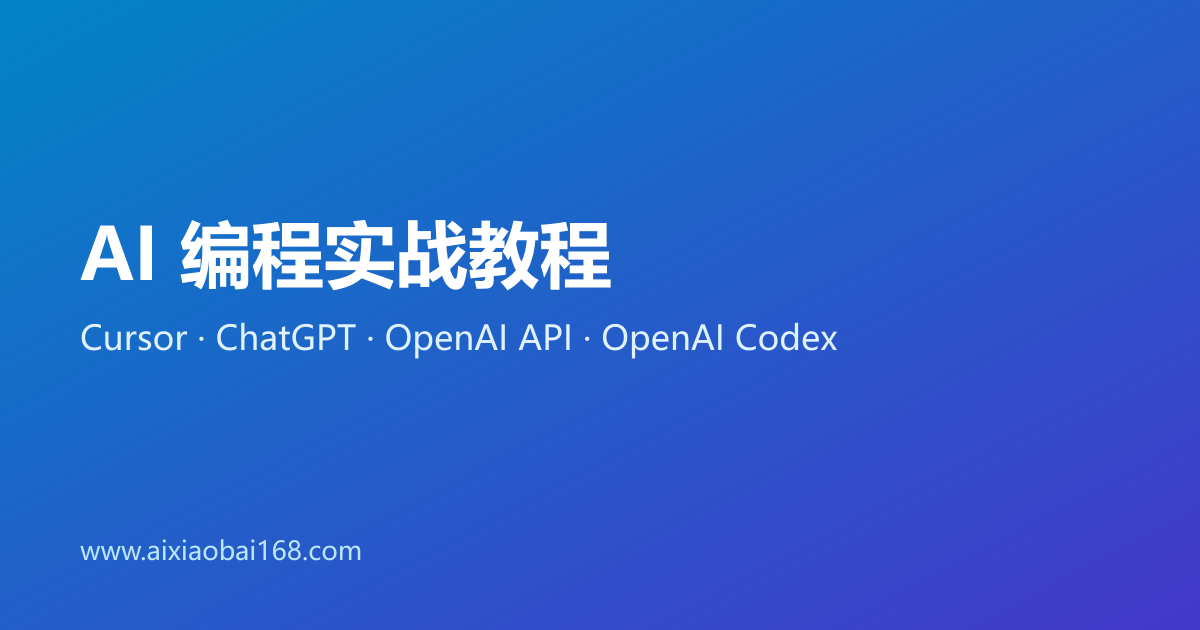
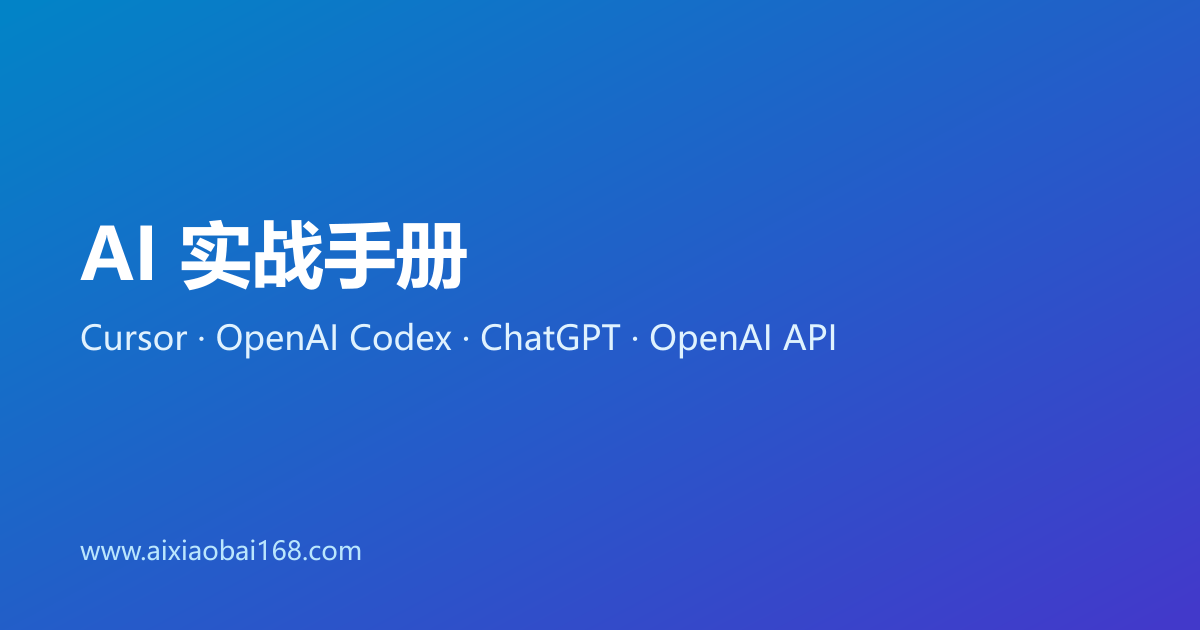
refactor: 品牌统一为「AI 实战手册」/ ai-playbook，站名改为引用 SITE_NAME 常量，重生成 OG 图

Changed region(s): [[0.1542, 0.3317, 0.5242, 0.4825], [0.185, 0.5127, 0.7092, 0.573]]

diff --git a/src/lib/site.ts b/src/lib/site.ts
@@ -1,7 +1,9 @@
 /** 站点级常量，供 layout、Seo 组件等复用，避免站名字符串到处重复硬编码。 */
-export const SITE_NAME = "AI 编程实战教程";
+export const SITE_NAME = "AI 实战手册";
+export const SITE_TAGLINE =
+  "AI 编程与 Agent 工作流的可执行手册，小白也能照着做";
 export const SITE_AUTHOR = "wybzsngw";
 
 /** 首页 <meta name="description"> 文案，同时供 RSS 频道 description 复用，避免两处各写一份文案。 */
 export const SITE_DESCRIPTION =
-  "AI 编程实战教程站是面向海外中文读者的技术教程站，系统整理 Cursor、ChatGPT、OpenAI API 与 OpenAI Codex 四大专题的实战步骤、工程化流程、账号与费用边界、常见故障排查方法，帮助你从安装配置到日常开发运维全流程落地使用 AI 编程与效率工具，少走弯路、避免反复踩坑。";
+  "AI 实战手册面向海外中文读者，系统整理 Cursor、OpenAI Codex、ChatGPT 与 OpenAI API 的可执行步骤、Agent 工作流、账号与费用边界和故障排查方法，帮你从安装配置到日常开发把 AI 编程工具真正用起来，少走弯路。";

diff --git a/README.md b/README.md
@@ -1,7 +1,7 @@
-# AI 编程实战教程 2026 — Cursor / ChatGPT / OpenAI API / OpenAI Codex
+# AI 实战手册 — Cursor / OpenAI Codex / ChatGPT / OpenAI API 中文实战教程
 
 [![在线阅读](https://img.shields.io/badge/在线阅读-www.aixiaobai168.com-0ea5e9?style=for-the-badge)](https://www.aixiaobai168.com)
-[![GitHub stars](https://img.shields.io/github/stars/wybzsngw/ai-tools-guide?style=for-the-badge&label=stars&color=orange)](https://github.com/wybzsngw/ai-tools-guide/stargazers)
+[![GitHub stars](https://img.shields.io/github/stars/wybzsngw/ai-playbook?style=for-the-badge&label=stars&color=orange)](https://github.com/wybzsngw/ai-playbook/stargazers)
 [![Code License](https://img.shields.io/badge/代码-Apache_2.0-10b981?style=for-the-badge)](LICENSE)
 [![Docs License](https://img.shields.io/badge/教程-CC_BY_4.0-0ea5e9?style=for-the-badge)](LICENSE-docs.md)
 ![Last Updated](https://img.shields.io/badge/最近更新-2026.09-7c4dff?style=for-the-badge)
@@ -51,7 +51,7 @@ Gemini CLI 尚未建档，因此不列入教程主表。本仓库目前也没有
 
 新增/编辑文章、修改 SEO 相关组件前，请先看 [SEO-STANDARDS.md](SEO-STANDARDS.md)（title/description 规则、必填 meta、frontmatter 字段、affiliate 链接处理、本地校验方法等）。
 
-当前有效教程以仓库中的 Markdown 文件为准，`src/` 下的 Astro 站点在构建时读取这些 Markdown 生成 [aixiaobai168.com](https://www.aixiaobai168.com) 上的页面，不需要维护第二份内容。`docs/` 是旧版纯 HTML 静态站的历史文件（2026 年之前的路由器/VPN 主题内容，已长期暂停维护），已整体归档到 [`legacy-site`](https://github.com/wybzsngw/ai-tools-guide/tree/legacy-site) 分支保留查阅，主分支不再提供，也不会恢复。
+当前有效教程以仓库中的 Markdown 文件为准，`src/` 下的 Astro 站点在构建时读取这些 Markdown 生成 [aixiaobai168.com](https://www.aixiaobai168.com) 上的页面，不需要维护第二份内容。`docs/` 是旧版纯 HTML 静态站的历史文件（2026 年之前的路由器/VPN 主题内容，已长期暂停维护），已整体归档到 [`legacy-site`](https://github.com/wybzsngw/ai-playbook/tree/legacy-site) 分支保留查阅，主分支不再提供，也不会恢复。
 
 ## 内容原则与版权说明
 
@@ -78,7 +78,7 @@ Gemini CLI 尚未建档，因此不列入教程主表。本仓库目前也没有
 
 ### 2026 年 9 月
 
-- 仓库改名为 `ai-tools-guide`（原名 `router-vpn`，GitHub 已自动为旧地址建立跳转，历史 star/fork/Issue/PR 不受影响）。
+- 仓库将改名为 `ai-playbook`（原名 `router-vpn`，GitHub 已自动为旧地址建立跳转，历史 star/fork/Issue/PR 不受影响）。
 - 新增 Astro 混合内容站点（`src/`），教程正式发布在 [aixiaobai168.com](https://www.aixiaobai168.com)；旧版纯 HTML 静态站归档到 `legacy-site` 分支。
 - 全面校准 ChatGPT/OpenAI API 与 Cursor 教程。
 - 澄清许可：代码沿用 Apache-2.0，教程正文改为 CC BY 4.0，并补充转载说明。
@@ -107,7 +107,7 @@ Gemini CLI 尚未建档，因此不列入教程主表。本仓库目前也没有
 
 ## 反馈与贡献
 
-- 文档问题请提交 [Issue](https://github.com/wybzsngw/ai-tools-guide/issues)。
+- 文档问题请提交 [Issue](https://github.com/wybzsngw/ai-playbook/issues)。
 - 欢迎提交 Pull Request。
 
 **最后核验 / 更新时间：2026 年 9 月。**

diff --git a/LICENSE-docs.md b/LICENSE-docs.md
@@ -43,7 +43,7 @@
 示例：
 
 ```text
-本文改编自 wybzsngw/ai-tools-guide（https://github.com/wybzsngw/ai-tools-guide），
+本文改编自 wybzsngw/ai-playbook（https://github.com/wybzsngw/ai-playbook），
 依据 CC BY 4.0（https://creativecommons.org/licenses/by/4.0/）授权使用，内容有删改。
 ```
 
